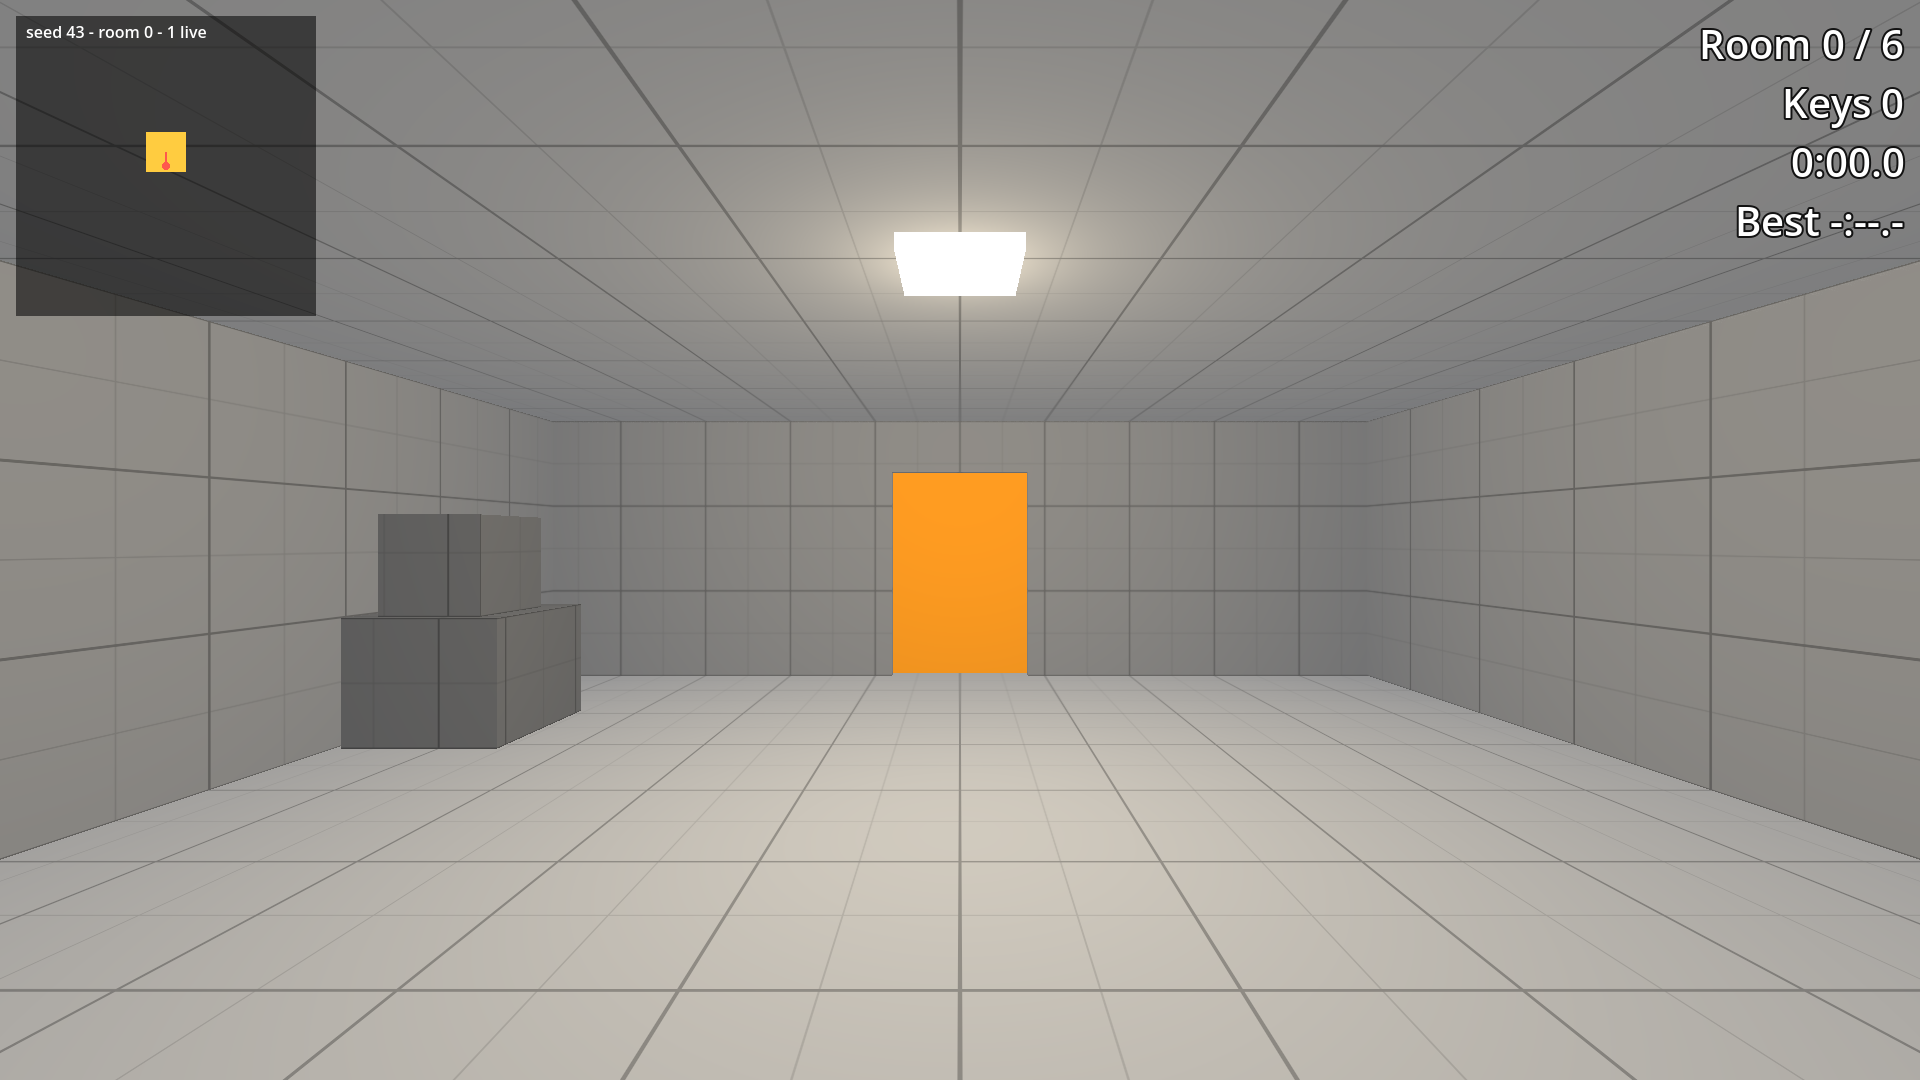
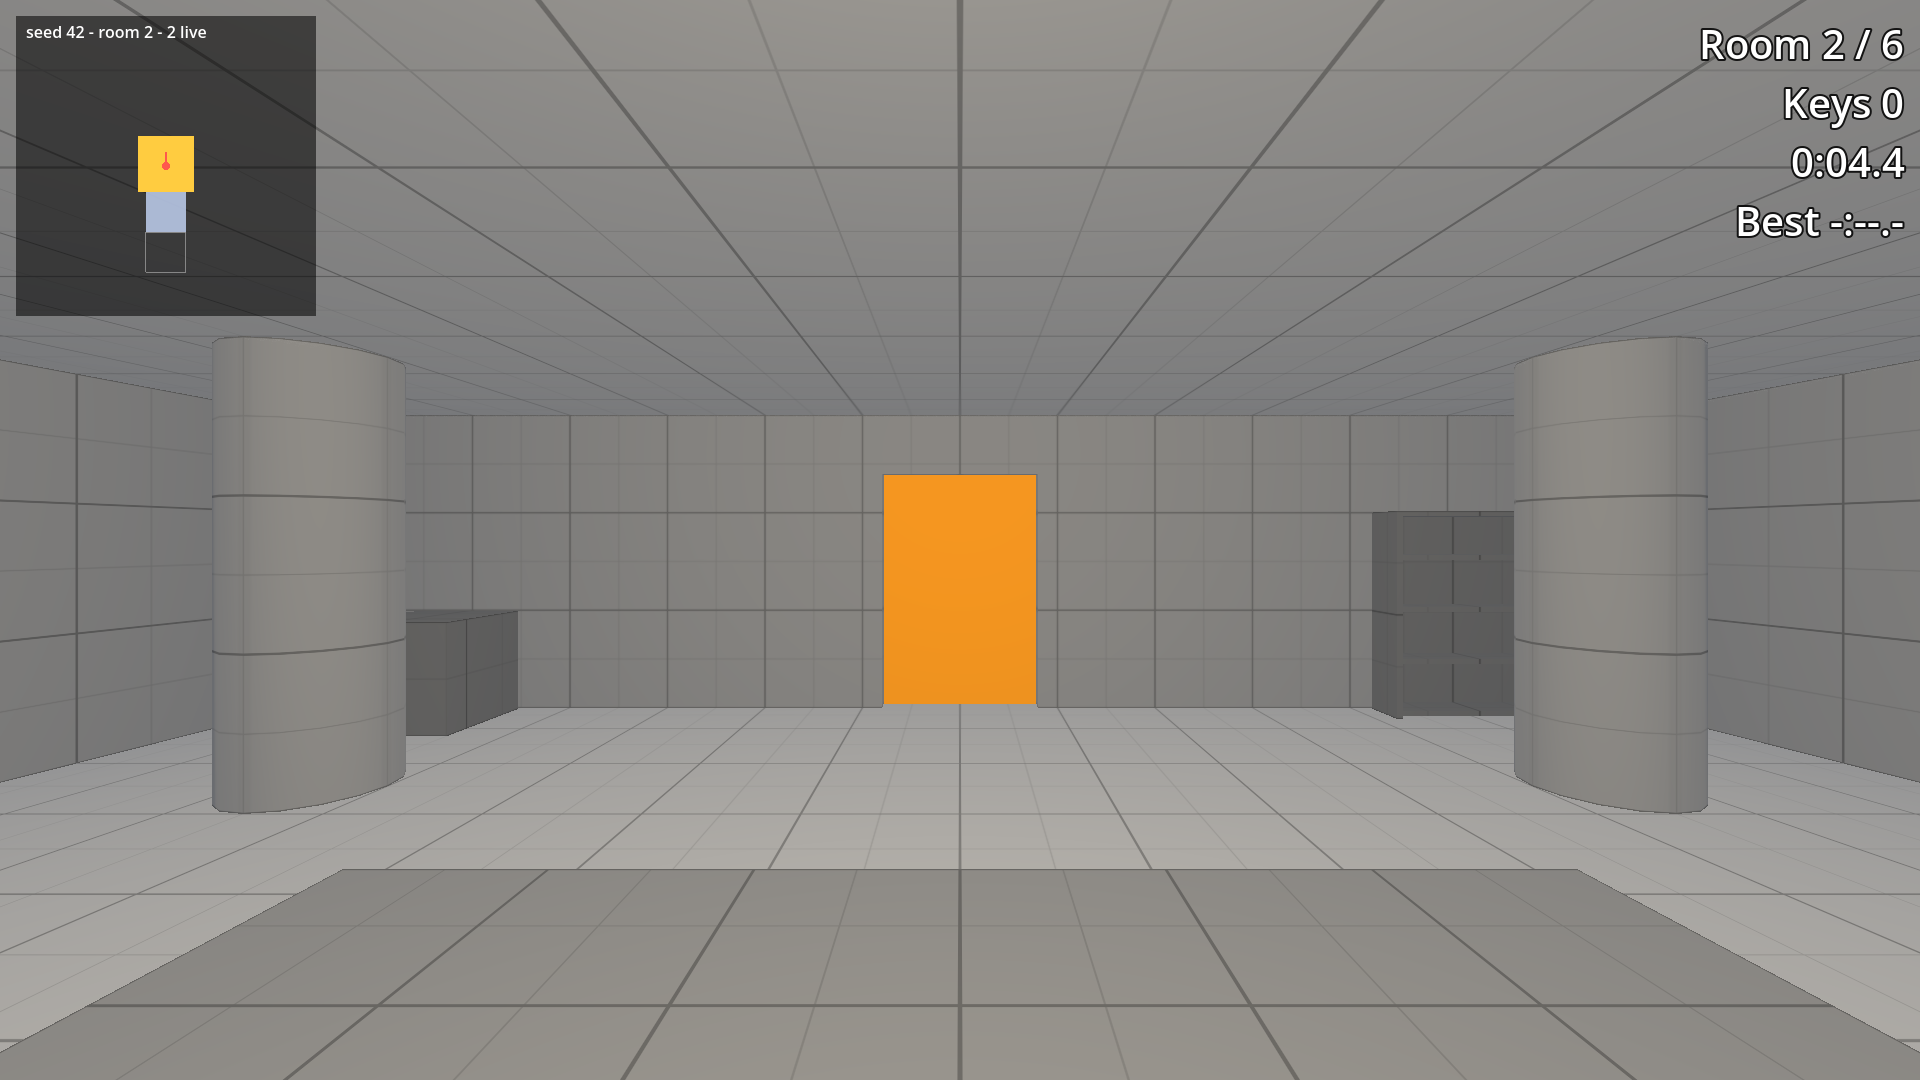
Tutorial 05: Room Contents in Godot 4 (godot-05)

diff --git a/README.md b/README.md
@@ -14,7 +14,7 @@ that step. The project's main scene is the final step.
 
 | Folder | Part of the video |
 |---|---|
-| `steps/step_00_start` | Starting point (the final state of the previous tutorial) |
+| `steps/step_00_start` | Starting point (the final state of tutorial 04) |
 | `steps/step_01_prop_spots` | Step 1 - Props on markers |
 | `steps/step_02_prop_sets` | Step 2 - Prop sets |
 | `steps/step_03_weighted_rooms` | Step 3 - Weighted rooms |
